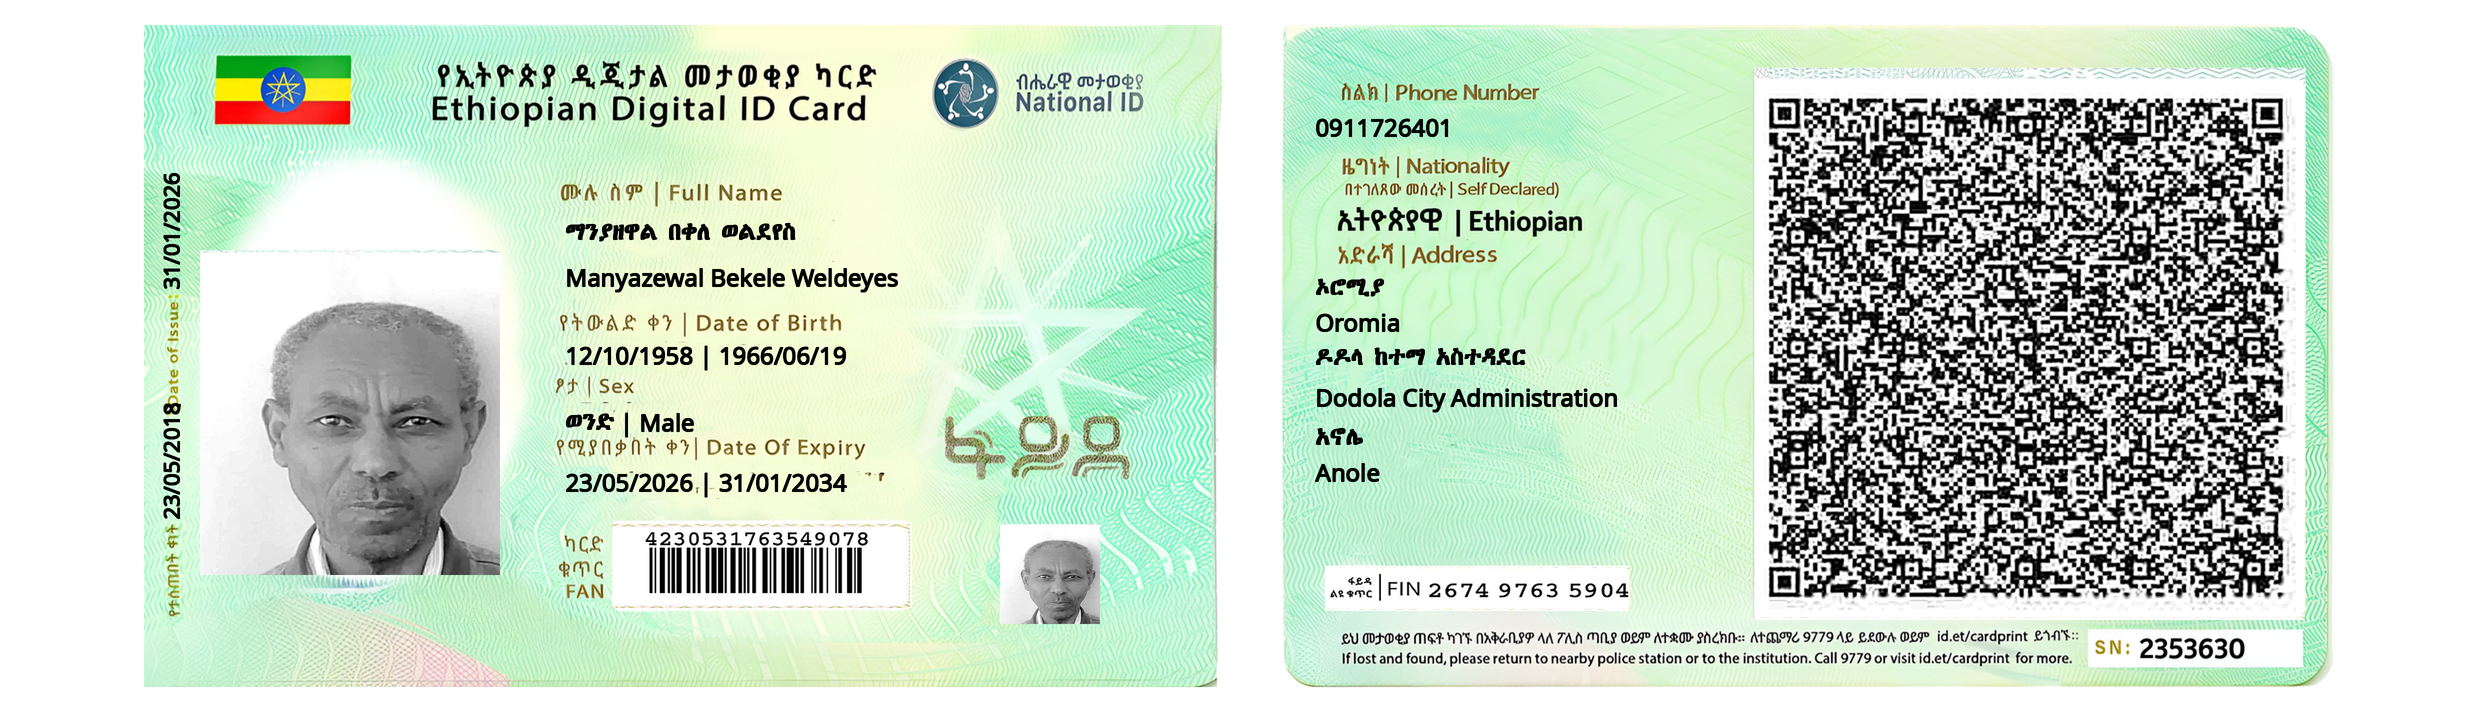
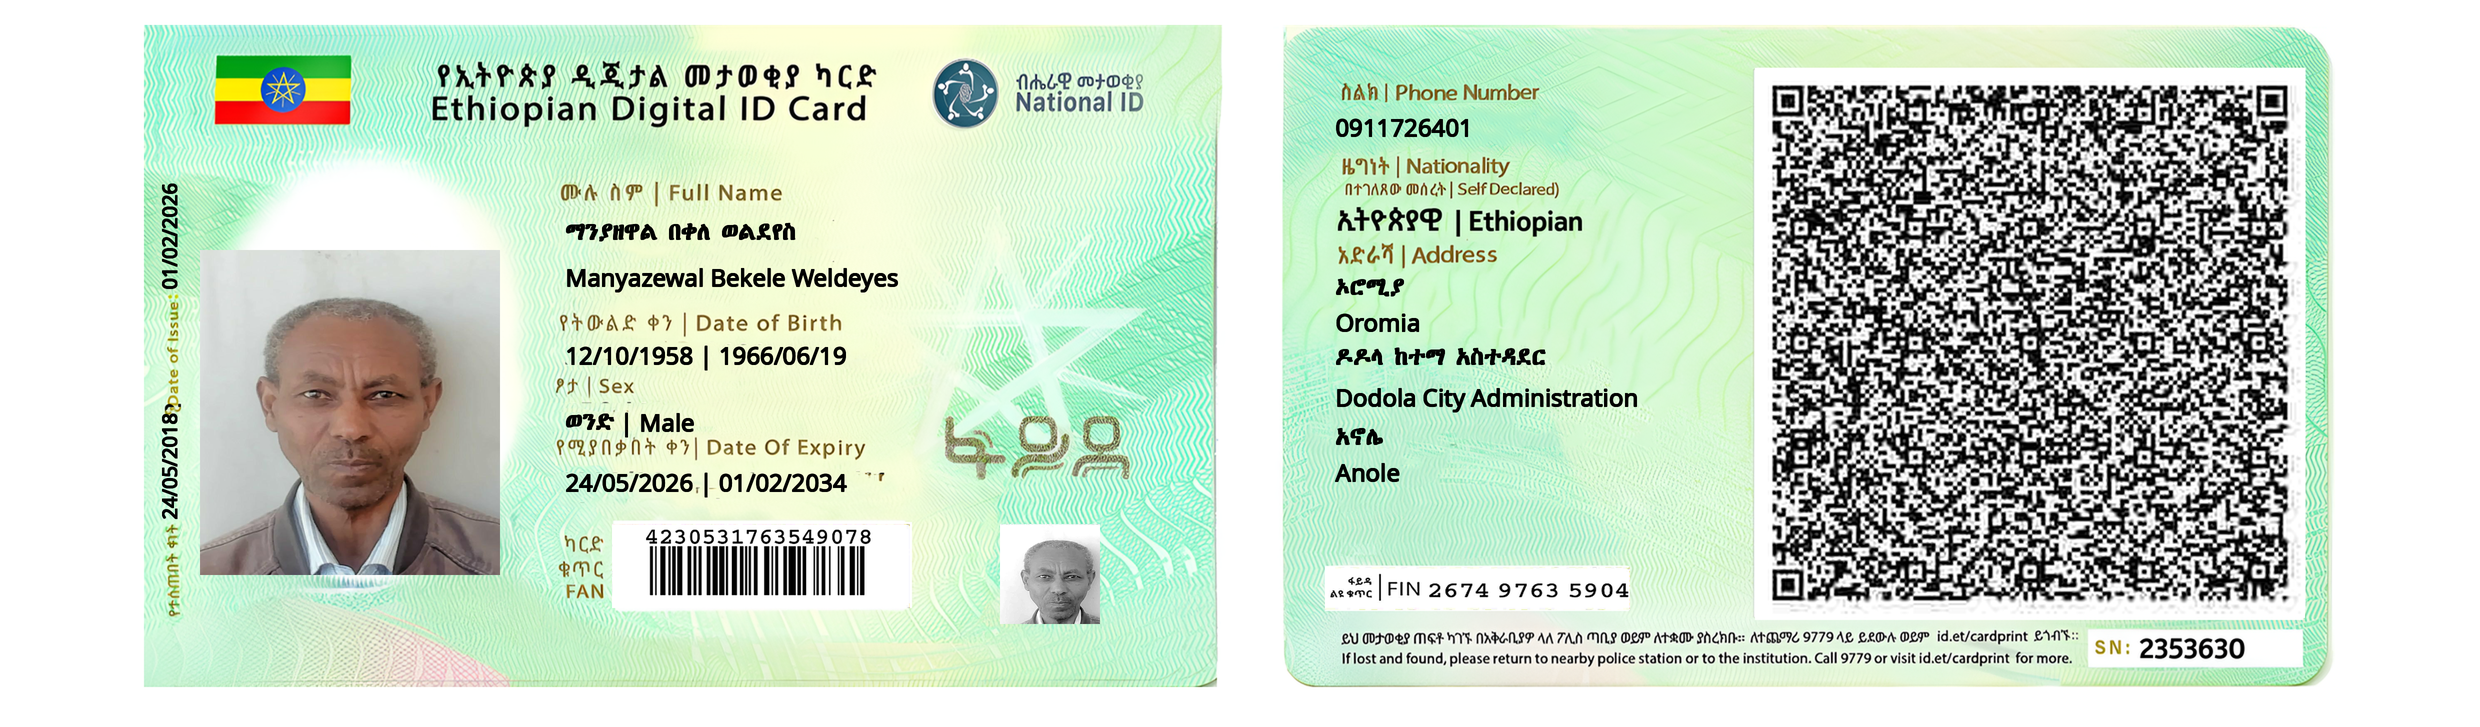
pdf imag extracted

diff --git a/core/image/image_generator.py b/core/image/image_generator.py
@@ -8,7 +8,7 @@ from io import BytesIO
 from app.config import BASE_DIR
 from core.image.image_crop import crop_pdf_sections
 from core.pdf.pdf_data_extractor import extract_user_data  # Your OCR/text extraction function
-
+from core.pdf.images_from_pdf import extract_images_from_pdf
 # ======================
 # 🔹 Constants and Paths
 # ======================
@@ -23,19 +23,19 @@ TEMPLATE_FIELDS = {
     "name_am": {"type": "text", "coords": (565, 215), "lang": "am"},
     "date_of_birth_et": {"type": "text", "coords": (565, 338), "lang": "am"},
     "sex_am": {"type": "text", "coords": (565, 405), "lang": "am"},
-    "region_am": {"type": "text", "coords": (1315, 270), "lang": "am"},
-    "zone_am": {"type": "text", "coords": (1315, 340), "lang": "am"},
-    "woreda_am": {"type": "text", "coords": (1315, 420), "lang": "am"},
+    "region_am": {"type": "text", "coords": (1335, 270), "lang": "am"},
+    "zone_am": {"type": "text", "coords": (1335, 340), "lang": "am"},
+    "woreda_am": {"type": "text", "coords": (1335, 420), "lang": "am"},
 
     # English / Numeric Fields
     "name_en": {"type": "text", "coords": (565, 260), "lang": "en"},
     "date_of_birth_greg": {"type": "text", "coords": (565, 372), "lang": "en"},
     "sex_en": {"type": "text", "coords": (680, 405), "lang": "en"},
     "expiry_date": {"type": "text", "coords": (565, 465), "lang": "en"},
-    "phone_number": {"type": "text", "coords": (1315, 110), "lang": "en"},
-    "region_en": {"type": "text", "coords": (1315, 305), "lang": "en"},
-    "zone_en": {"type": "text", "coords": (1315, 380), "lang": "en"},
-    "woreda_en": {"type": "text", "coords": (1315, 455), "lang": "en"},
+    "phone_number": {"type": "text", "coords": (1335, 110), "lang": "en"},
+    "region_en": {"type": "text", "coords": (1335, 305), "lang": "en"},
+    "zone_en": {"type": "text", "coords": (1335, 380), "lang": "en"},
+    "woreda_en": {"type": "text", "coords": (1335, 455), "lang": "en"},
     "fan_code": {"type": "text", "coords": (626, 534), "lang": "en"},
 
     # Image fields
@@ -118,10 +118,13 @@ def generate_final_id_image(
     try:
         # 1⃣ Extract cropped images and text
         image_crops = crop_pdf_sections(pdf_path, output_dir, dpi=400)
+        second_images = extract_images_from_pdf(pdf_path)
         text_data = extract_user_data(pdf_path)
     except Exception as e:
         raise RuntimeError(f"Error extracting data from PDF: {e}")
 
+    image_crops["photo"] = second_images["photo"]
+    image_crops["qrcode"] = second_images["qrcode"]
     # 2⃣ Load base template
     template_img = cv2.imread(str(TEMPLATE_PATH))
     if template_img is None:
@@ -197,8 +200,8 @@ def generate_final_id_image(
             print(f"[Warning] Could not paste {key}: {e}")
 
     # 7⃣ Draw vertical date text (both)
-    draw_vertical_text(img_large, (155, 290), date_of_issue_greg, font_english, 22, boldness=1, scale=scale)
-    draw_vertical_text(img_large, (155, 520), date_of_issue_eth, font_english, 22, boldness=1, scale=scale)
+    draw_vertical_text(img_large, (155, 290), date_of_issue_greg, font_english, 20, boldness=1, scale=scale)
+    draw_vertical_text(img_large, (155, 520), date_of_issue_eth, font_english, 20, boldness=1, scale=scale)
 
     # 8⃣ Downscale with LANCZOS to preserve sharpness
     img_final = img_large.resize((w, h), Image.Resampling.LANCZOS)

diff --git a/core/pdf/images_from_pdf.py b/core/pdf/images_from_pdf.py
@@ -1,0 +1,40 @@
+import fitz
+import io
+import numpy as np
+import cv2  # Import cv2
+from PIL import Image
+
+def extract_images_from_pdf(pdf_path):
+    doc = fitz.open(pdf_path)
+    extracted_images = []
+
+    for page_index in range(len(doc)):
+        page = doc[page_index]
+        image_list = page.get_images(full=True)
+
+        for img in image_list:
+            xref = img[0]
+            base_image = doc.extract_image(xref)
+            image_bytes = base_image["image"]
+            
+            # 1. Open with PIL (This is in RGB)
+            pil_img = Image.open(io.BytesIO(image_bytes))
+            
+            # 2. Convert to NumPy array
+            numpy_img = np.array(pil_img)
+            
+            # 3. FIX THE COLOR: Convert RGB to BGR for OpenCV
+            # We check if it has 3 channels (RGB) or 4 (RGBA)
+            if len(numpy_img.shape) == 3:
+                if numpy_img.shape[2] == 3:  # RGB
+                    numpy_img = cv2.cvtColor(numpy_img, cv2.COLOR_RGB2BGR)
+                elif numpy_img.shape[2] == 4:  # RGBA
+                    numpy_img = cv2.cvtColor(numpy_img, cv2.COLOR_RGBA2BGR)
+            
+            extracted_images.append(numpy_img)
+
+    num_found = len(extracted_images)
+    return {
+        "photo": extracted_images[0] if num_found > 0 else None,
+        "qrcode": extracted_images[1] if num_found > 1 else None
+    }

diff --git a/core/image/image_black_and_white_conv.py b/core/image/image_black_and_white_conv.py
@@ -1,0 +1,23 @@
+import cv2
+import numpy as np
+from PIL import Image
+
+def convert_to_grayscale(pil_image):
+    """Converts a PIL Image to an OpenCV grayscale image object."""
+    # 1. Convert PIL image to a NumPy array (which OpenCV uses)
+    open_cv_image = np.array(pil_image)
+    
+    # 2. Convert RGB to Grayscale
+    # Note: PIL uses RGB, so we use COLOR_RGB2GRAY
+    gray_image = cv2.cvtColor(open_cv_image, cv2.COLOR_RGB2GRAY)
+    
+    return gray_image
+
+def convert_to_binary(pil_image):
+    """Converts a PIL Image to a strict Black & White (Binary) image."""
+    gray = convert_to_grayscale(pil_image)
+    
+    # Apply thresholding: pixels > 127 become white, others black
+    _, binary_image = cv2.threshold(gray, 127, 255, cv2.THRESH_BINARY)
+    
+    return binary_image

diff --git a/core/image/image_bg_remove.py b/core/image/image_bg_remove.py
@@ -1,0 +1,28 @@
+
+from rembg import remove
+from PIL import Image
+import io
+
+
+def remove_background(input_path, output_path):
+   # Load the input image
+   with open(input_path, 'rb') as i:
+       input_image = i.read()
+
+
+   # Use rembg to remove the background
+   output_image = remove(input_image)
+
+
+   # Save the result
+   with open(output_path, 'wb') as o:
+       o.write(output_image)
+  
+   print(f"Background removed successfully! Saved to: {output_path}")
+
+
+# USE IT LIKE THIS:
+remove_background(
+   "/content/sample_data/image_1.jpeg",
+   "/content/sample_data/no_bg.png"  # Must save as .png for transparency
+)

diff --git a/core/image/image_crop.py b/core/image/image_crop.py
@@ -20,7 +20,7 @@ def crop_pdf_sections(pdf_path: Path, output_dir: Path, dpi: int = 400):
 
     # 3⃣ Define crop coordinates (x1, y1, x2, y2)
     photo_coords = (2445, 670, 2810, 1130)
-    barcode_coords = (2400, 1605, 2850, 1745)
+    barcode_coords = (2400, 1610, 2845, 1740)
     qrcode_coords = (2290, 2000, 3000, 2700)
     fin_code_coords = (2640, 2730, 3000, 2790)
     # Adjust for DPI scaling if needed

diff --git a/core/pdf/pdf_data_extractor.py b/core/pdf/pdf_data_extractor.py
@@ -1,3 +1,4 @@
+
 import camelot
 from pathlib import Path
 import pdfplumber
